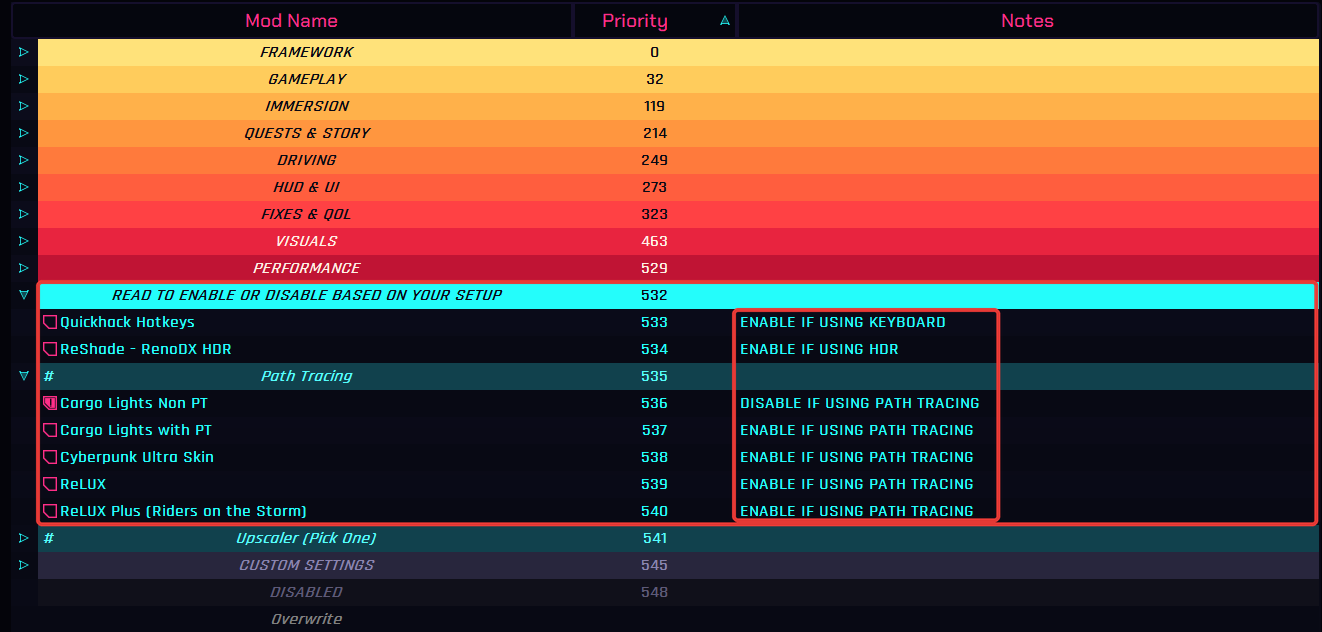
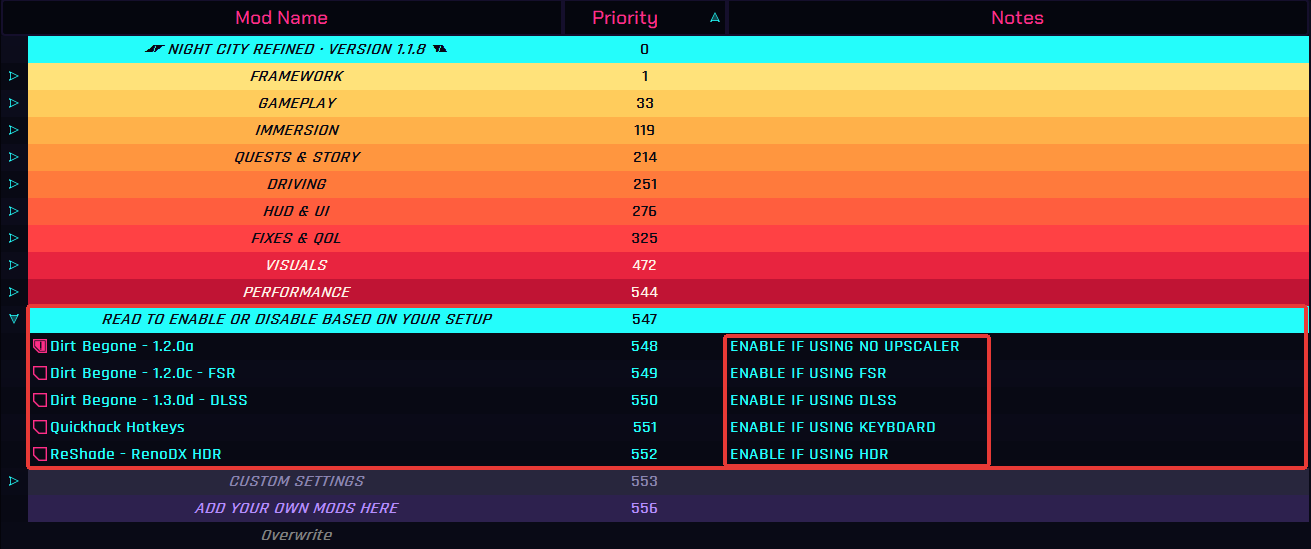
README: Windows 11 support notice, pagefile section, updated READ TO ENABLE screenshot

diff --git a/README.md b/README.md
@@ -29,6 +29,7 @@
     - [Installing REDmod](#installing-redmod)
     - [Clean Install](#clean-install)
     - [If You Have Modded the Game Before](#if-you-have-modded-the-game-before)
+    - [Pagefile and Crash Prevention](#pagefile-and-crash-prevention)
   - [Wabbajack Installation](#wabbajack-installation)
     - [Installing Wabbajack](#installing-wabbajack)
     - [Downloading and Installing Night City Refined](#downloading-and-installing-night-city-refined)
@@ -58,7 +59,7 @@ Night City Refined follows the base Cyberpunk 2077 system specs.
 
 | | Minimum (1080p Low) | Recommended (1080p High) |
 |---|---|---|
-| **OS** | Windows 10/11 64-bit | Windows 10/11 64-bit |
+| **OS** | Windows 11 64-bit | Windows 11 64-bit |
 | **CPU** | i7-6700 / R5 1600 | i7-12700 / R5 7600 |
 | **RAM** | 12 GB | 16 GB |
 | **GPU** | GTX 1060 6GB / RX 580 | RTX 3060 / RX 5700 XT |
@@ -74,6 +75,9 @@ If your PC runs vanilla Cyberpunk 2077, it runs Night City Refined. Path tracing
 Installing Night City Refined is easy and, if you have Nexus Premium, mostly a waiting game. If you are updating an existing install, skip to the [updating section](#updating-the-modlist).
 
 ## Pre-Installation *(do this for a brand new, clean install)*
+
+>[!IMPORTANT]
+>**Support is only given on Windows 11.** The list is built and tested on Windows 11, and that is the only system we can troubleshoot properly. If you are on Windows 10, Linux, Steam Deck, or anything else, the list may still work and we will try to help, but those reports are not a priority.
 
 ### Installing REDmod
 
@@ -107,6 +111,47 @@ REDmod is a free DLC and the list will not work without it. On Steam, open the D
     ![mod folder in archive\pc](Images/readme/ec752043-e227-481e-800b-5c2bb7633a6c.png)
 
  3. Verify your game files through your launcher (Steam, GOG, Epic). This restores every core file you just deleted and guarantees a clean base for the list.
+
+### Pagefile and Crash Prevention
+
+>[!WARNING]
+>Night City Refined runs hundreds of mods on top of a game that already uses a lot of memory. Running out of memory **will** cause crashes to desktop, so this step is **NOT** optional, no matter how much RAM or VRAM you have.
+
+**To set up a pagefile:**
+
+ 1. Press `Win Key + R`.
+
+ 2. Type `sysdm.cpl ,3` and hit `ENTER`.
+
+ 3. Under **Performance**, click `Settings...`.
+
+ 4. Click the **Advanced** tab at the top.
+
+ 5. Under **Virtual Memory**, click `Change...`.
+
+ 6. Untick `Automatically manage paging file size for all drives` if it is ticked.
+
+ 7. Select a drive, ideally your fastest SSD.
+
+ 8. Click `Custom size:`.
+
+ 9. In the box next to **Initial size (MB)**, type `20480`.
+
+ 10. In the box next to **Maximum size (MB)**, type `20480`.
+
+ 11. Click `Set`, then `OK`, then `Apply`, then `OK`.
+
+ 12. **Restart your PC.**
+
+>[!TIP]
+>The pagefile does not need to be on the same drive as Wabbajack, the modlist, or the game. It takes up 20 GB, so pick a drive with room to spare.
+
+<Details>
+<summary>Why do we need a pagefile?</summary>
+
+The pagefile is space on your drive that Windows uses as extra memory when your RAM fills up. Cyberpunk 2077 is a heavy game on its own, and a modded install loads far more into memory on top of it: extra scripts, tweaks, textures, and archives. When Windows manages the pagefile by itself, it can start too small and grow mid-game, and if the game asks for memory while it is still growing, it crashes to desktop. Setting a fixed size up front means the memory is always there when the game needs it.
+
+</Details>
 
 ## Wabbajack Installation
 
@@ -213,7 +258,7 @@ If Wabbajack keeps crashing, freezing, or blue-screening your PC, lower its reso
 
 Before your first launch, open Mod Organizer 2 and scroll to the `READ TO ENABLE OR DISABLE BASED ON YOUR SETUP` separator. The mods in it depend on your hardware and settings, so go through them and tick or untick each one to match your PC.
 
- - **Path tracing, HDR, and keyboard mods ship disabled.** Several mods here are built only for path tracing, RenoDX is only for HDR, and Quickhack Hotkeys is only for mouse and keyboard. Enable the ones that match how you play.
+ - **Upscaler, HDR, and keyboard mods.** Dirt Begone comes in three versions: the plain one (no upscaler) is on by default, so if you use FSR or DLSS, untick it and tick that one instead. RenoDX is only for HDR, and Quickhack Hotkeys is only for mouse and keyboard. Both ship disabled.
  - **Use the notes.** Each mod in this separator has a note beside it in the Notes column that tells you when to enable or disable it.
 
 ![READ TO ENABLE OR DISABLE BASED ON YOUR SETUP separator and its notes in Mod Organizer 2](Images/mo2-read-to-enable.png)
